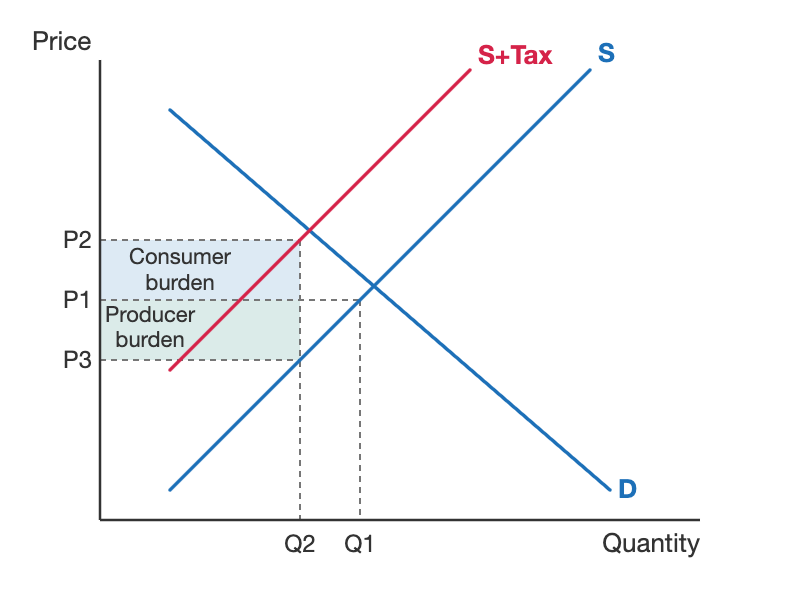
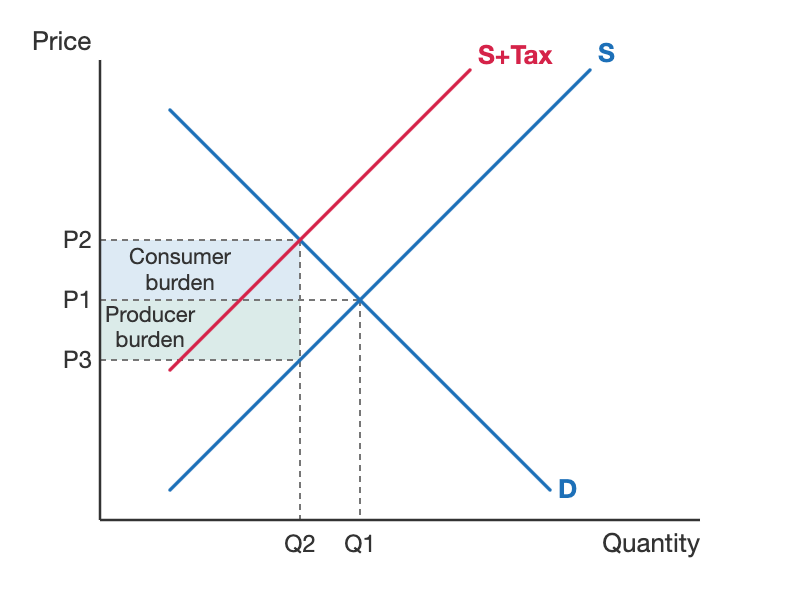
fix: align diagram guides with true curve intersections, add geometry checker
The demand curve in the tax and externality diagrams ran at slope 0.86
against guide positions computed for slope 1, putting every intersection
marker ~12px off. All straight curves are now exact 45 degrees. New
scripts/verify_diagram_geometry.py enforces a declared-geometry comment in
every diagram SVG and proves each declared intersection lies on its curves.

diff --git a/scripts/verify_diagram_geometry.py b/scripts/verify_diagram_geometry.py
@@ -1,0 +1,177 @@
+#!/usr/bin/env python3
+"""Check the internal geometry of the flashcard diagram SVGs.
+
+For each SVG given (default: every .svg in images/diagrams/svg/):
+
+  * classifies elements by the style-guide conventions in
+    docs/DIAGRAM_STYLE.md — curves are 3.5px lines, axes are 2.5px #333333
+    lines, guides are anything with a stroke-dasharray;
+  * prints every pairwise curve intersection that falls within both
+    segments, so the author can cross-check label positions;
+  * FLAGs any dashed-guide endpoint, shaded-path vertex or rect corner that
+    does not lie on a curve, an axis or another guide (tolerance 1px);
+  * enforces the declared-geometry comment every diagram must carry:
+
+        <!-- geometry
+             intersections: 360,300 300,240
+             on-curve: 300,360
+        -->
+
+    Each `intersections` point must lie on at least two distinct curves;
+    each `on-curve` point on at least one. This is the author stating the
+    economics of the diagram, and it is what actually catches a curve that
+    misses its intended crossing — the purely structural checks cannot tell
+    a marker that touches one curve correctly from one that should touch
+    two and misses.
+
+Pure stdlib. Exit code 1 if anything is flagged. This exists because a
+hand-drawn demand curve once missed 45 degrees by a whisker and every dashed
+intersection marker silently sat ~12px off the true crossing; eyes did not
+catch it, arithmetic does.
+"""
+
+import glob
+import math
+import os
+import re
+import sys
+import xml.etree.ElementTree as ET
+
+SVG_NS = "{http://www.w3.org/2000/svg}"
+TOL = 1.0
+
+REPO = os.path.dirname(os.path.dirname(os.path.abspath(__file__)))
+DEFAULT_DIR = os.path.join(REPO, "images", "diagrams", "svg")
+
+
+def seg_point_distance(px, py, x1, y1, x2, y2):
+    """Distance from point (px,py) to segment (x1,y1)-(x2,y2)."""
+    dx, dy = x2 - x1, y2 - y1
+    length_sq = dx * dx + dy * dy
+    if length_sq == 0:
+        return math.hypot(px - x1, py - y1)
+    t = ((px - x1) * dx + (py - y1) * dy) / length_sq
+    t = max(0.0, min(1.0, t))
+    return math.hypot(px - (x1 + t * dx), py - (y1 + t * dy))
+
+
+def seg_intersection(a, b):
+    """Intersection point of segments a and b, or None."""
+    (x1, y1, x2, y2), (x3, y3, x4, y4) = a, b
+    d = (x2 - x1) * (y4 - y3) - (y2 - y1) * (x4 - x3)
+    if d == 0:
+        return None
+    t = ((x3 - x1) * (y4 - y3) - (y3 - y1) * (x4 - x3)) / d
+    u = ((x3 - x1) * (y2 - y1) - (y3 - y1) * (x2 - x1)) / d
+    if -0.001 <= t <= 1.001 and -0.001 <= u <= 1.001:
+        return (x1 + t * (x2 - x1), y1 + t * (y2 - y1))
+    return None
+
+
+def path_vertices(d):
+    """Vertices of a simple absolute M/L/Z path."""
+    nums = [float(n) for n in re.findall(r"-?\d+(?:\.\d+)?", d)]
+    if re.search(r"[a-z]", d.replace("z", "")) or len(nums) % 2:
+        return None  # relative or curved commands: not checkable here
+    return list(zip(nums[0::2], nums[1::2]))
+
+
+def declared_points(path):
+    """Parse the '<!-- geometry ... -->' comment. Returns two point lists."""
+    with open(path, encoding="utf-8") as fh:
+        text = fh.read()
+    match = re.search(r"<!--\s*geometry(.*?)-->", text, re.S)
+    if not match:
+        return None, None
+    block = match.group(1)
+    points = {"intersections": [], "on-curve": []}
+    for key in points:
+        found = re.search(key + r":((?:\s+-?\d+(?:\.\d+)?,-?\d+(?:\.\d+)?)+)",
+                          block)
+        if found:
+            points[key] = [tuple(float(v) for v in pair.split(","))
+                           for pair in found.group(1).split()]
+    return points["intersections"], points["on-curve"]
+
+
+def check_file(path):
+    tree = ET.parse(path)
+    curves, axes, guides, checks = [], [], [], []
+
+    for el in tree.iter():
+        tag = el.tag.replace(SVG_NS, "")
+        if tag == "line":
+            seg = tuple(float(el.get(k)) for k in ("x1", "y1", "x2", "y2"))
+            if el.get("stroke-dasharray"):
+                guides.append(seg)
+            elif el.get("stroke-width") == "3.5":
+                curves.append(seg)
+            elif el.get("stroke") == "#333333" and el.get("stroke-width") == "2.5":
+                axes.append(seg)
+        elif tag == "rect" and el.get("fill-opacity"):
+            x, y = float(el.get("x")), float(el.get("y"))
+            w, h = float(el.get("width")), float(el.get("height"))
+            for cx, cy in ((x, y), (x + w, y), (x, y + h), (x + w, y + h)):
+                checks.append(("rect corner", cx, cy))
+        elif tag == "path" and el.get("fill-opacity"):
+            verts = path_vertices(el.get("d", ""))
+            if verts is None:
+                print("  NOTE  shaded path uses curved/relative commands; "
+                      "not checked")
+            else:
+                for vx, vy in verts:
+                    checks.append(("path vertex", vx, vy))
+
+    for gx1, gy1, gx2, gy2 in guides:
+        checks.append(("guide endpoint", gx1, gy1))
+        checks.append(("guide endpoint", gx2, gy2))
+
+    print(f"{os.path.relpath(path, REPO)}")
+    for i, a in enumerate(curves):
+        for b in curves[i + 1:]:
+            p = seg_intersection(a, b)
+            if p:
+                print(f"  curves cross at ({p[0]:.1f}, {p[1]:.1f})")
+
+    anchors = curves + axes + guides
+    flags = 0
+    for kind, px, py in checks:
+        if not any(seg_point_distance(px, py, *seg) <= TOL for seg in anchors):
+            print(f"  FLAG  {kind} ({px:g}, {py:g}) lies on no curve, axis "
+                  f"or guide")
+            flags += 1
+
+    crossings, on_curve = declared_points(path)
+    if crossings is None:
+        print("  FLAG  no '<!-- geometry -->' declaration in the file")
+        flags += 1
+    else:
+        for px, py in crossings:
+            hits = sum(seg_point_distance(px, py, *c) <= TOL for c in curves)
+            if hits < 2:
+                print(f"  FLAG  declared intersection ({px:g}, {py:g}) "
+                      f"touches {hits} curve(s), needs at least 2")
+                flags += 1
+        for px, py in on_curve:
+            if not any(seg_point_distance(px, py, *c) <= TOL for c in curves):
+                print(f"  FLAG  declared on-curve point ({px:g}, {py:g}) "
+                      f"lies on no curve")
+                flags += 1
+
+    if not flags:
+        print("  OK    structure and declared geometry both hold")
+    return flags
+
+
+def main():
+    paths = sys.argv[1:] or sorted(glob.glob(os.path.join(DEFAULT_DIR, "*.svg")))
+    if not paths:
+        print("no SVGs found")
+        return 1
+    total = sum(check_file(p) for p in paths)
+    print(f"{len(paths)} file(s) checked, {total} flag(s)")
+    return 1 if total else 0
+
+
+if __name__ == "__main__":
+    sys.exit(main())

diff --git a/docs/DIAGRAM_STYLE.md b/docs/DIAGRAM_STYLE.md
@@ -37,6 +37,11 @@ the PNG where they conflict; conflicts are logged in docs/CONTENT_ISSUES.md.
 - Curves: 3.5px, `stroke-linecap="round"`. Straight-line curves are `<line>`/
   `<path>` with no curvature — A-Level convention draws D and S straight;
   Keynesian AS and genuinely curved relationships use smooth paths.
+- **Geometry is computed, never eyeballed.** Straight curves default to exact
+  45° screen slopes (|Δx| = |Δy|); every intersection a guide marks is
+  derived algebraically from the curve endpoints before the guides are drawn.
+  The first proof batch shipped a demand curve at slope 0.86 against guides
+  computed for slope 1, and every marker sat ~12px off — visual QA missed it.
 - Guide lines: 2px, `stroke-dasharray="6 5"`.
 - Shift arrows: 2.5px in the shifted curve's colour, with an arrowhead
   `<marker>`, drawn between the curves roughly mid-way along them.
@@ -90,13 +95,20 @@ ground-truth PNG's name where one exists (`demand-curve-shift.svg` beside
 
 ## Self-QA loop (standing rule 4)
 
+0. Declare the diagram's economics in a `<!-- geometry -->` comment —
+   `intersections:` points that must lie on two curves, `on-curve:` points
+   that must lie on one — then run
+   `python3 scripts/verify_diagram_geometry.py`; zero flags required. The
+   declaration is mandatory: the checker fails any SVG without one.
 1. Render:
    `"/Applications/Google Chrome.app/Contents/MacOS/Google Chrome" --headless
    --screenshot=<out>.png --window-size=800,600 --hide-scrollbars <file>.svg`
 2. Read the PNG back visually. Check: no overlapping or clipped labels;
-   intersections land where the guide lines say they do; every curve is
-   labelled and the labels name the right curves; shaded areas cover exactly
-   the region claimed; arrows point the right way.
+   every curve is labelled and the labels name the right curves; shaded areas
+   cover exactly the region claimed; arrows point the right way. For
+   intersections, additionally render zoomed close-ups (copy the SVG with a
+   cropped `viewBox` around each junction) — full-size renders hide a 10px
+   miss.
 3. Repeat at `--window-size=400,300` and confirm labels are still legible at
    mobile scale. Headless Chrome reserves scrollbar width at this size, so a
    ~15px right-edge crop in the render is an artifact, not an SVG fault —

diff --git a/docs/FLASHCARDS_PROGRESS.md b/docs/FLASHCARDS_PROGRESS.md
@@ -73,6 +73,16 @@ player or card content exists yet.
   self-QA (clipped `D=MPB=MSB` label). Style guide gained two rulings from
   the loop: compact-equals curve identity labels, and the known mobile-render
   scrollbar artifact.
+- 2026-08-04 — **Eliot's review caught what visual self-QA missed**: in the
+  tax and externality diagrams the demand curve ran at slope 0.86 while every
+  guide position assumed slope 1, so intersection markers and the welfare
+  triangle sat ~12px off the true crossings. Fixed (all straight curves now
+  exact 45°). Countermeasures now locked into the style guide:
+  `scripts/verify_diagram_geometry.py` (stdlib; every diagram declares its
+  intended intersections in a `<!-- geometry -->` comment and the checker
+  proves each one lies on the curves — regression-tested against the buggy
+  version, which it flags), plus zoomed-viewBox close-up renders of every
+  junction in the visual pass.
 
 ## Next steps
 
